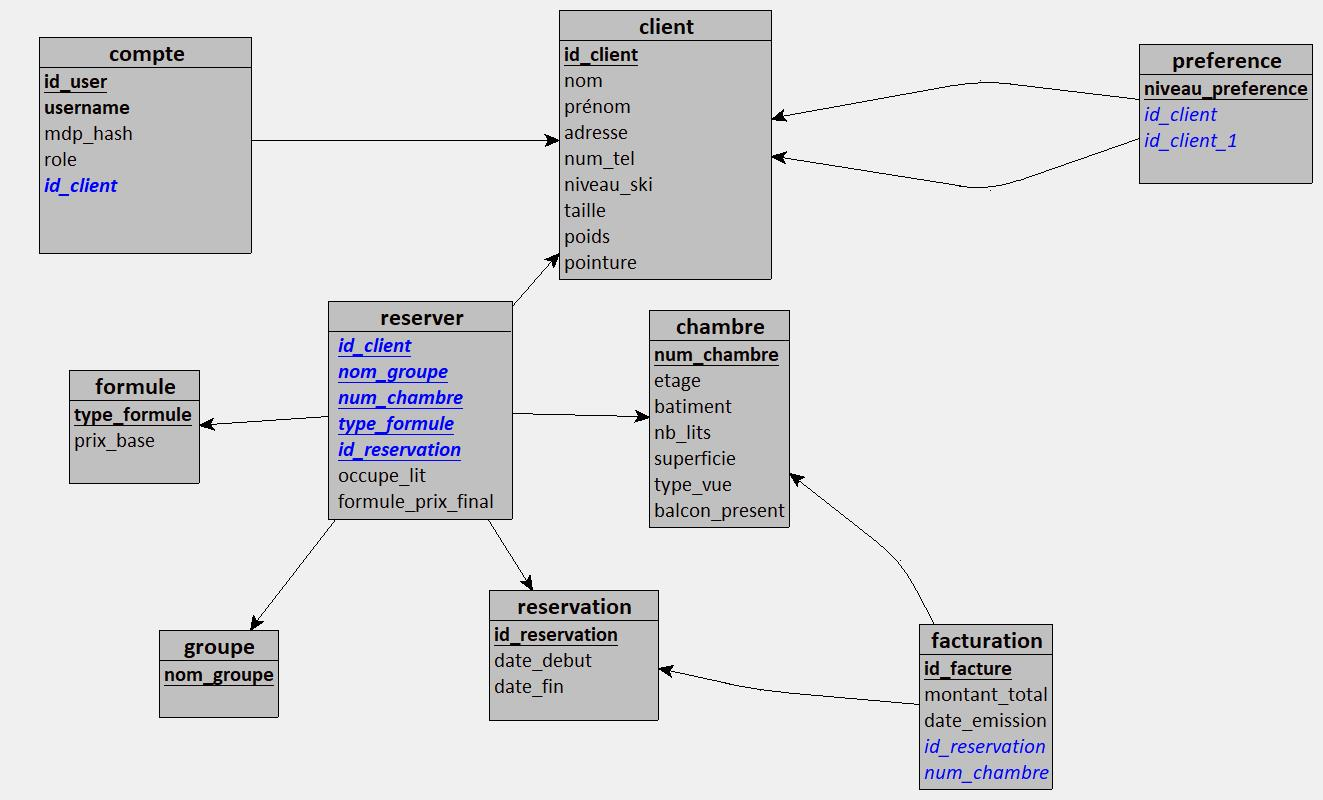
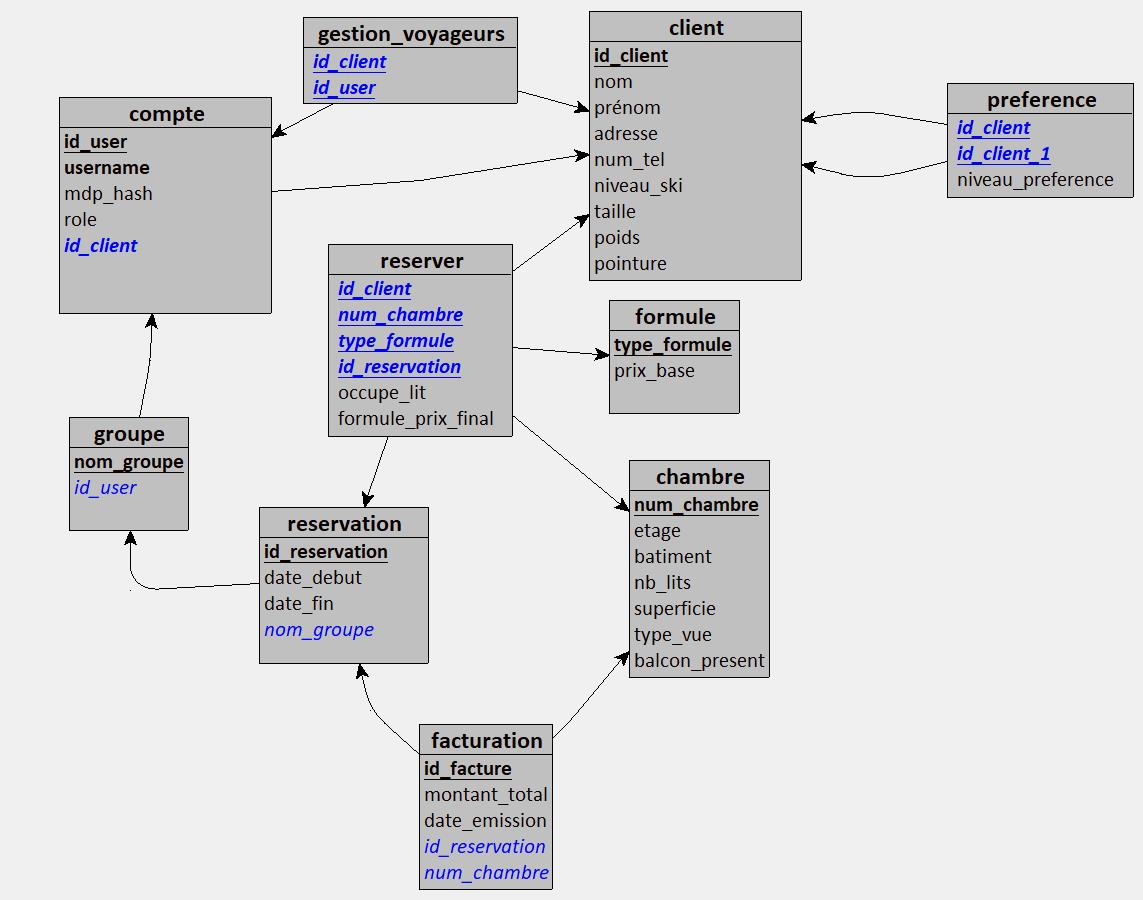
feat: modification mld et base de donee

diff --git a/src/pages/recherche.php b/src/pages/recherche.php
@@ -2,7 +2,7 @@
 require_once '../includes/db.php';
 require_once '../includes/header.php';
 
-$sql = "SELECT * FROM chambre";
+$sql = "SELECT * FROM chambre WHERE 1=1"; // WHERE pour pas casser les options
 $parametres = [];
 
 if (isset($_GET['vue'])) {